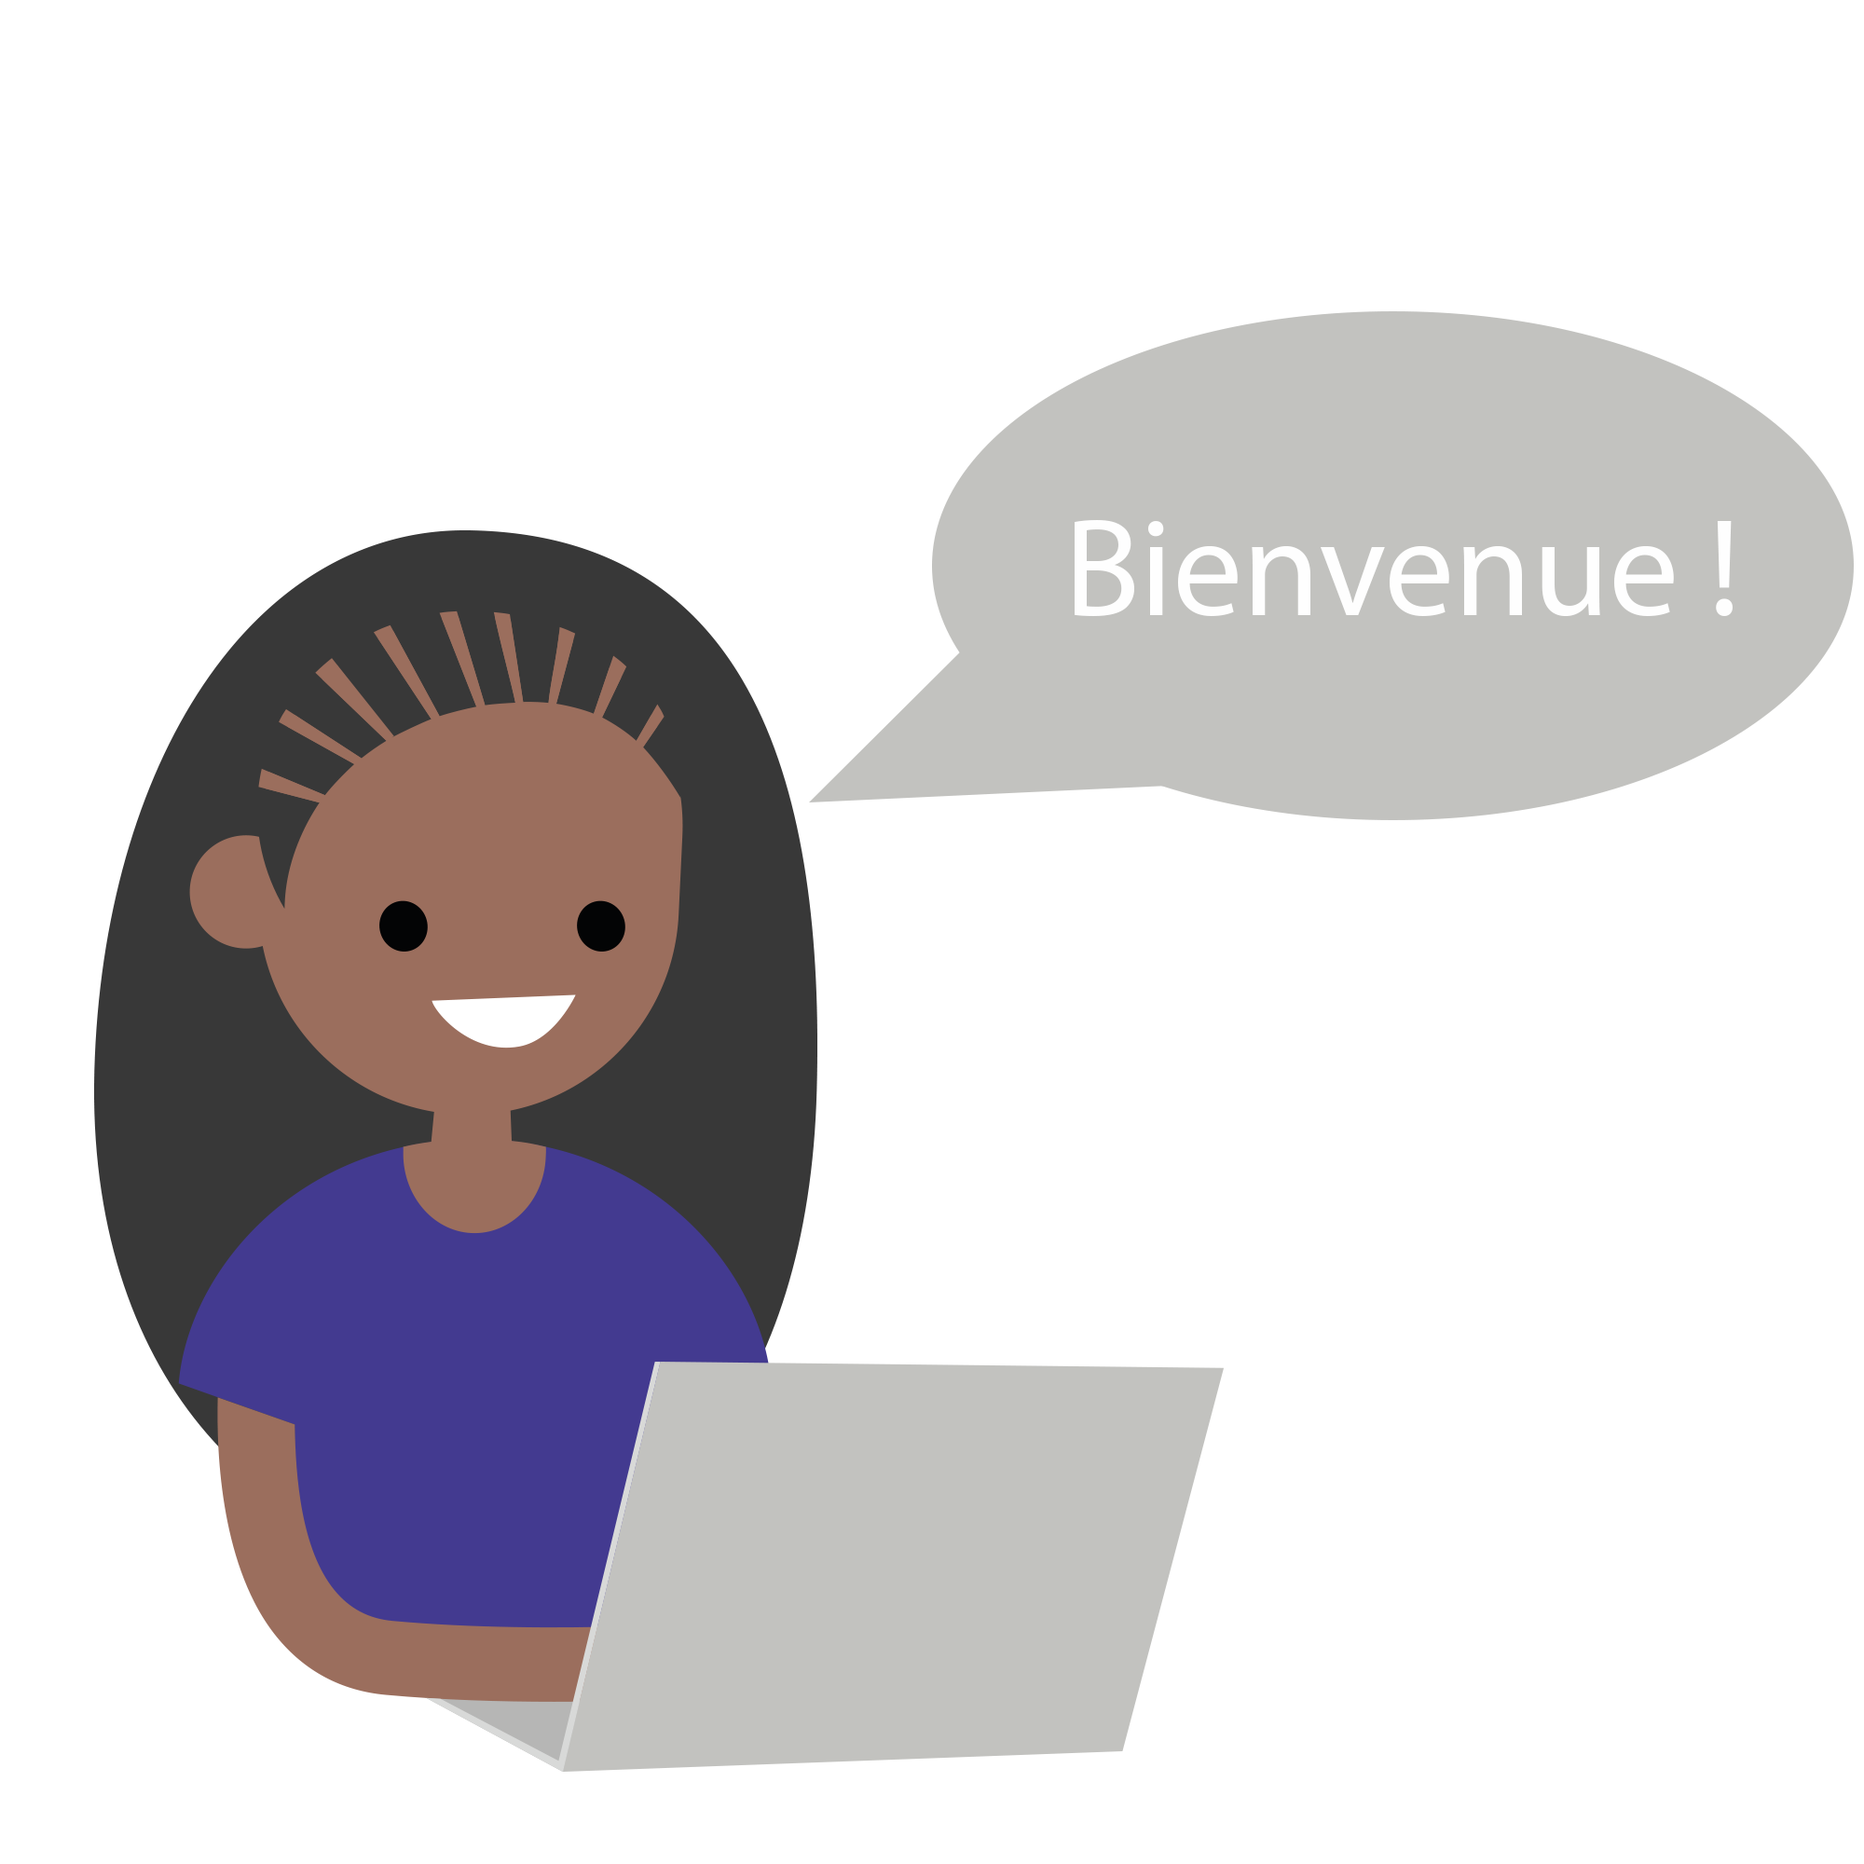
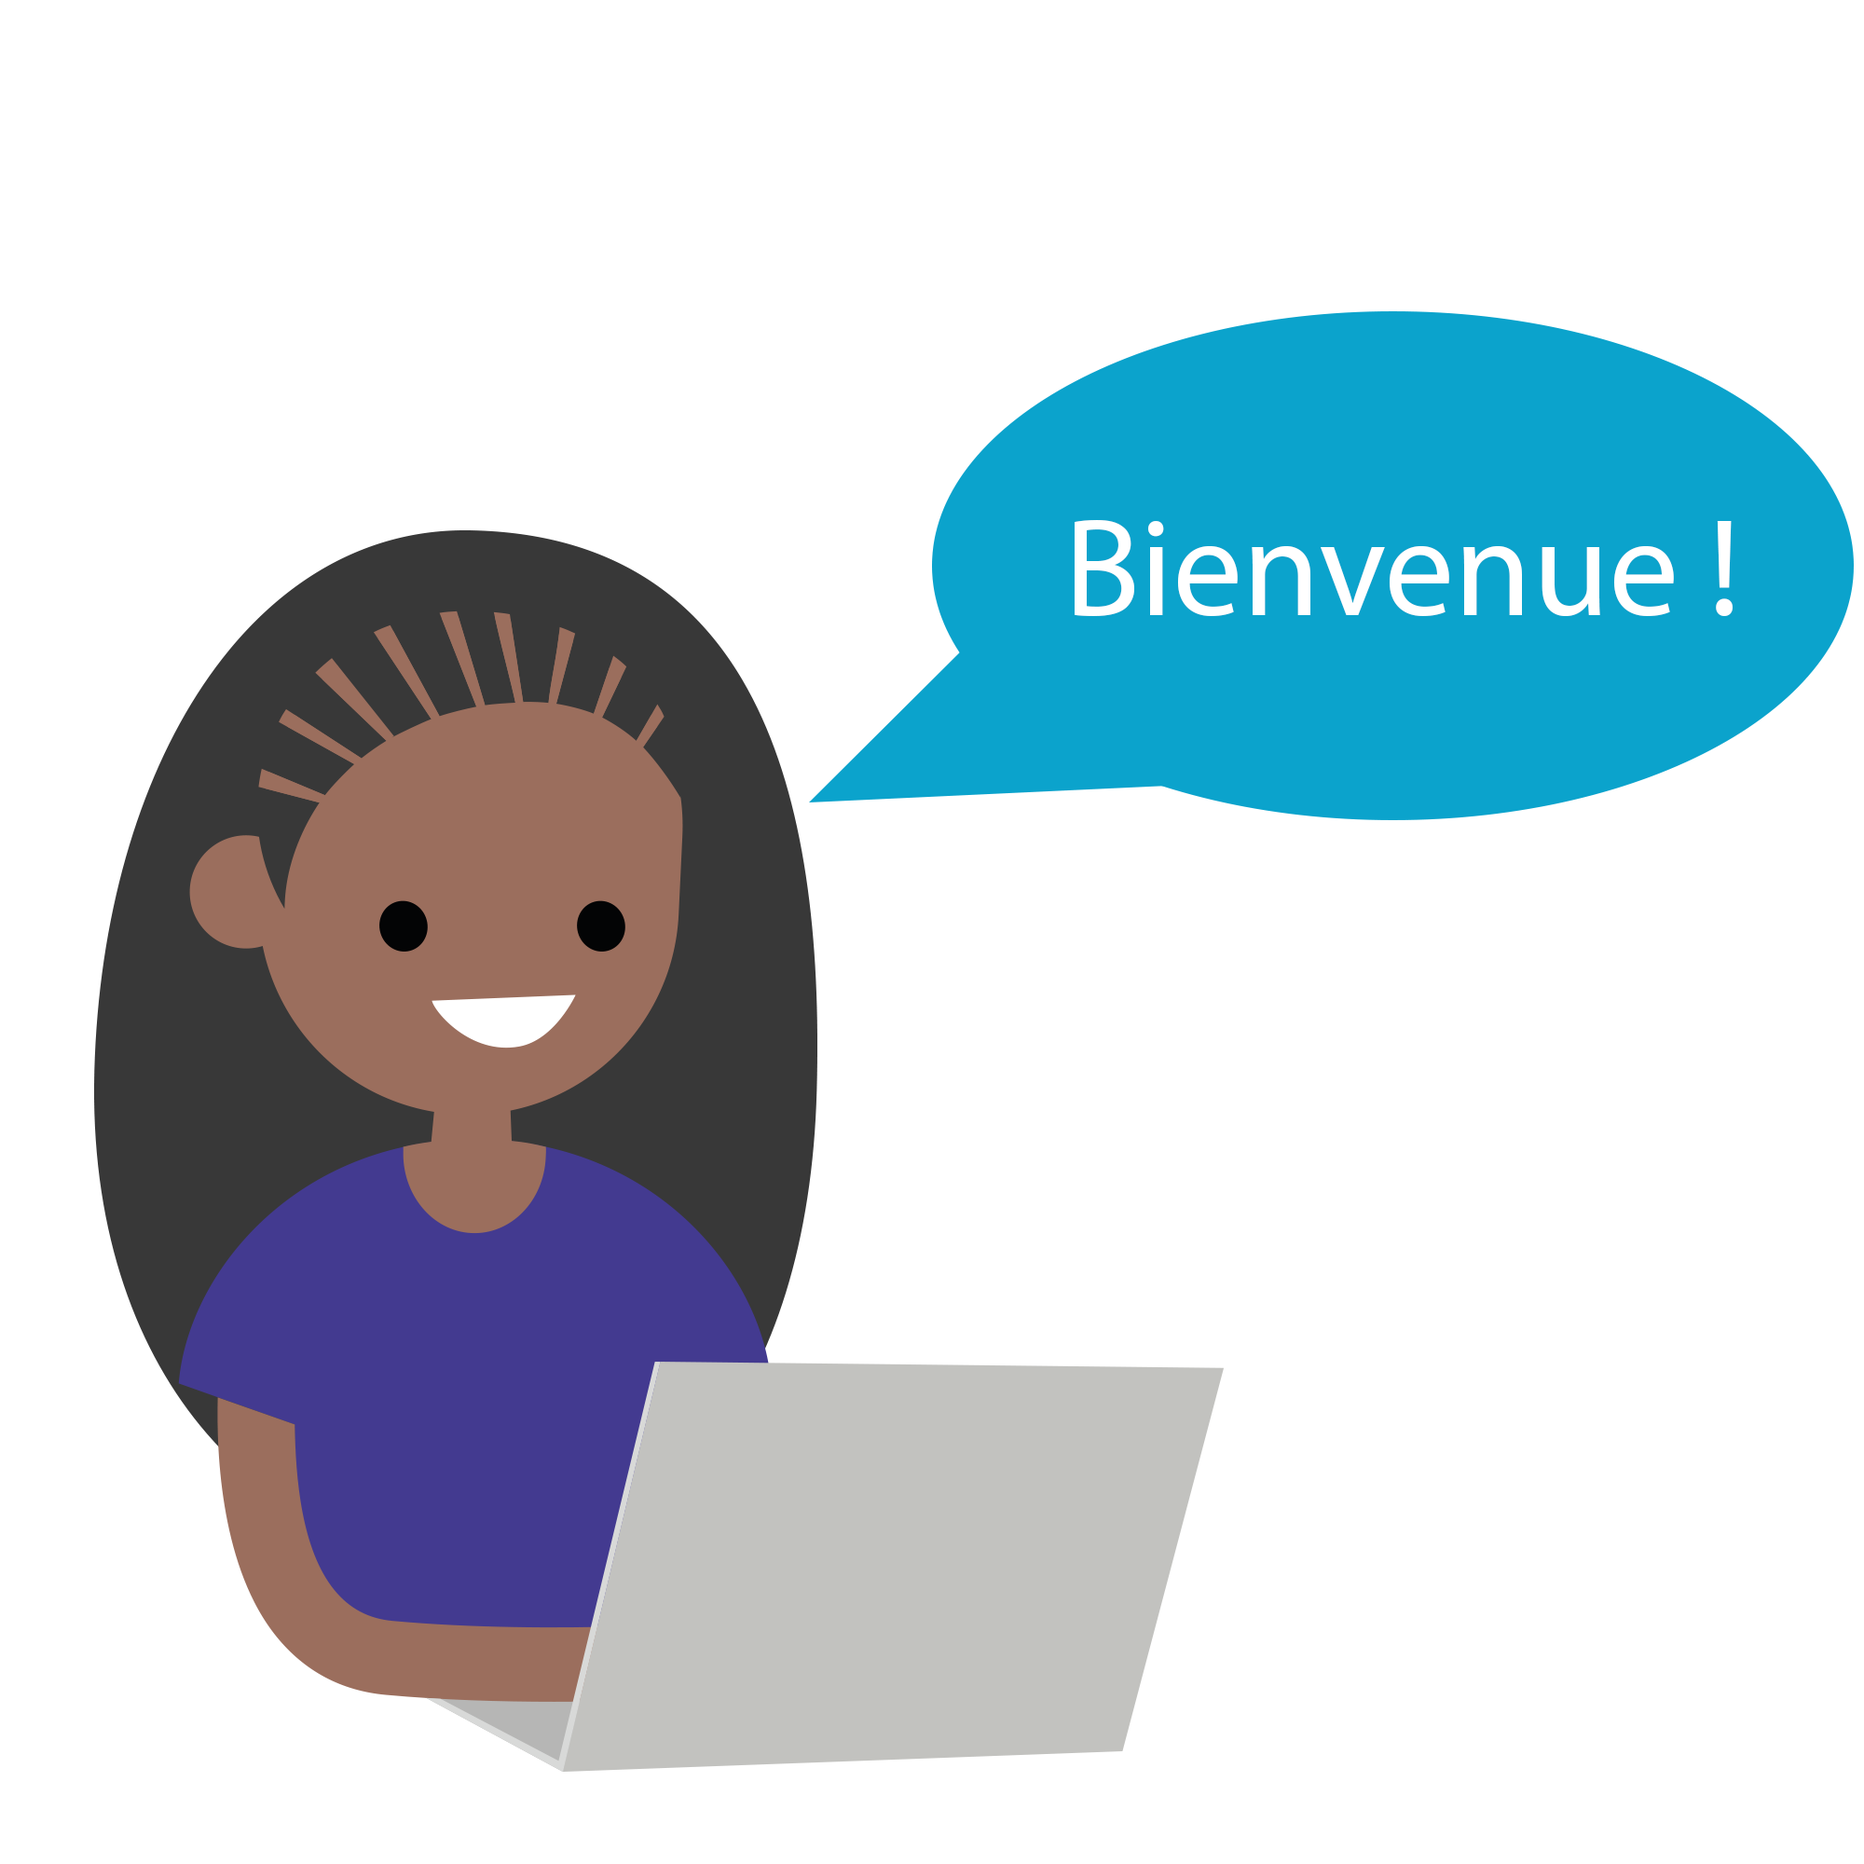
Modification CSS

Changed region(s): [[0.434, 0.155, 1.0, 0.465]]

diff --git a/src/pages/concours/concours.html b/src/pages/concours/concours.html
@@ -1,9 +1,17 @@
-<ion-header></ion-header>
-
-<ion-content *ngIf="connect" padding style="margin-top: 20px;">
-
+<ion-content *ngIf="connect" class="card-background-page content" padding style="background-color:#0BA3CC; margin-top : -5px;">
+    <div style="text-align : center; background-color: #0BA3CC;">
+        <br>
+        <img style="width:50%;" src="assets/imgs/logo24.png">
+    </div>
+    <br>
+    <br>
   <ion-row>
     <div class="titre">Modalités de participation au concours</div>
+    <br>
+    <br>
+    <div class="barre"></div>
+    <br>
+    <br>
   </ion-row>
   <div *ngIf="ref == undefined">
     <ion-row>
@@ -18,68 +26,86 @@
     </ion-row>
     <div>
       <ion-row>
-        <div class="modalites">Votre participation compte {{nombreTicketDejaRemis}} tickets </div>
+        <div class="modalites">
+          <ion-row>
+            <ion-col col-7>
+                Votre participation compte
+            </ion-col>
+            <ion-col class="nbTickets" col-3>
+                {{nombreTicketDejaRemis}} ticket(s)
+            </ion-col>
+          </ion-row>  </div>
       </ion-row>
       <div *ngIf="(nombreTicket-nombreTicketDejaRemis) == 0">
         <div class="modalites">Vous n'avez pas de nouveaux tickets pour augmenter vos chances de gagner. </div>
       </div>
       <div *ngIf="(nombreTicket-nombreTicketDejaRemis) > 0">
         <div class="modalites">Vous pouvez ajouter {{nombreTicket-nombreTicketDejaRemis}} tickets à votre participation. </div>
+        <br>
         <ion-row justify-content-center>
-          <button ion-button (click)="update(nombreTicket)">ajouter les tickets restants</button>
+          <button ion-button style="background-color:#E7600E" (click)="update(nombreTicket)">ajouter les tickets restants</button>
         </ion-row>
       </div>
     </div>
   </div>
+  <br>
+
   <div class="barre"></div>
-
-  <ion-row style="margin-top:20px; margin-block-end: 0">
-    <ion-list no-lines>
-      <ion-item>
-        <ion-label style="color: black" inline>Nom * :</ion-label>
-        <ion-input (change)="newInput()" [(ngModel)]="nom" style="color: #0BA3CC" type="text" placeholder="Votre nom"></ion-input>
-      </ion-item>
-      <ion-item>
-        <ion-label style="color: black" inline>Prénom * :</ion-label>
-        <ion-input (change)="newInput()" [(ngModel)]="prenom" style="color: #0BA3CC" type="text" placeholder="Votre prénom"></ion-input>
-      </ion-item>
-      <ion-item>
-        <ion-label style="color: black" inline>Téléphone * :</ion-label>
-        <ion-input (change)="newInput()" [(ngModel)]="tel" style="color: #0BA3CC" type="tel" placeholder="_ _-_ _-_ _-_ _-_ _"></ion-input>
-      </ion-item>
-      <ion-item>
-        <ion-label style="color: black" inline>Mail :</ion-label>
-        <ion-input [(ngModel)]="mail" style="color: #0BA3CC" type="email" placeholder="votre_mail@exemple.fr"></ion-input>
-      </ion-item>
-      <ion-item>
-        <div class="conditions">* champs obligatoires</div>
-      </ion-item>
-    </ion-list>
-  </ion-row>
-  <div *ngIf="ref != undefined" style="margin-bottom:40px;">
-    <ion-row justify-content-center>
-      <button ion-button [disabled]="!isEnable" (click)="update(nombreTicketDejaRemis)">modifier mes coordonnées</button>
-    </ion-row>
-    <div class="barre"></div>
-  </div>
-
-  <div *ngIf="ref == undefined" style="margin-bottom:40px;">
-    <ion-row class="conditionsRow">
-      <ion-col col-1 align-self-center>
-        <ion-checkbox (ionChange)="newInput()" [(ngModel)]="cg" color="primary" checked="false"></ion-checkbox>
-      </ion-col>
-      <ion-col>
-        <div class="conditions">J'ai lu et j'accepte les
-          <div class="link" (click)="easterEgg()">
-            <span>conditions générales</span>
-          </div> de participation au concours et certifie sur l'honneur l'exactitude des informations communiquées</div>
-      </ion-col>
-    </ion-row>
-
-    <ion-row justify-content-center>
-      <button ion-button [disabled]="!isEnable" (click)="envoyer()">Envoyer la candidature</button>
-    </ion-row>
-  </div>
+  <br>
+<ion-card>
+  <br>
+<ion-card-title class="col">
+  Formulaire d'inscription
+</ion-card-title>
+    <ion-row style="margin-top:20px; margin-block-end: 0">
+        <ion-list no-lines>
+          <ion-item>
+            <ion-label style="color: black" inline>Nom * :</ion-label>
+            <ion-input (change)="newInput()" [(ngModel)]="nom" style="color: black" type="text" placeholder="Votre nom"></ion-input>
+          </ion-item>
+          <ion-item>
+            <ion-label style="color: black" inline>Prénom * :</ion-label>
+            <ion-input (change)="newInput()" [(ngModel)]="prenom" style="color: black" type="text" placeholder="Votre prénom"></ion-input>
+          </ion-item>
+          <ion-item>
+            <ion-label style="color: black" inline>Téléphone * :</ion-label>
+            <ion-input (change)="newInput()" [(ngModel)]="tel" style="color: black" type="tel" placeholder="_ _-_ _-_ _-_ _-_ _"></ion-input>
+          </ion-item>
+          <ion-item>
+            <ion-label style="color: black" inline>Mail :</ion-label>
+            <ion-input [(ngModel)]="mail" style="color: black" type="email" placeholder="votre_mail@exemple.fr"></ion-input>
+          </ion-item>
+          <ion-item>
+            <div class="conditions">* champs obligatoires</div>
+          </ion-item>
+        </ion-list>
+      </ion-row>
+      <div *ngIf="ref != undefined" style="margin-bottom:40px;">
+        <ion-row justify-content-center>
+          <button ion-button [disabled]="!isEnable" (click)="update(nombreTicketDejaRemis)">modifier mes coordonnées</button>
+        </ion-row>
+        <div class="barre"></div>
+      </div>
+    
+      <div *ngIf="ref == undefined" style="margin-bottom:40px;">
+        <ion-row class="conditionsRow">
+          <ion-col col-1 align-self-center>
+            <ion-checkbox (ionChange)="newInput()" [(ngModel)]="cg" color="primary" checked="false"></ion-checkbox>
+          </ion-col>
+          <ion-col>
+            <div class="conditions">J'ai lu et j'accepte les
+              <div class="link" (click)="easterEgg()">
+                <span>conditions générales</span>
+              </div> de participation au concours et certifie sur l'honneur l'exactitude des informations communiquées</div>
+          </ion-col>
+        </ion-row>
+    
+        <ion-row justify-content-center>
+          <button ion-button [disabled]="!isEnable" (click)="envoyer()">Envoyer la candidature</button>
+        </ion-row>
+      </div>
+</ion-card>
+  
 </ion-content>
 
 <ion-content *ngIf="!connect" text-center>

diff --git a/src/pages/defis/defis.html b/src/pages/defis/defis.html
@@ -1,14 +1,24 @@
 <ion-header></ion-header>
 
 <ion-content padding>
+    <div style="text-align : center">
+        <img style="width:50%;" src="assets/imgs/logo24_bleu.png">
+    </div>
+
+    <br>
+    <br>
+
     <div *ngFor="let theme of listTheme">
         <ion-grid>
             <ion-row class="bleu">
-                <ion-col col-10>
+                <ion-col col-9>
                     <ion-label class="titre-defi">{{theme.nom}}</ion-label>
                 </ion-col>
                 <ion-col col-2>
                     <ion-label class="ticket">{{theme.nbTicketActuel}}/{{theme.nbTicketMax}}</ion-label>
+                </ion-col>
+                <ion-col class="flex" col-1>
+                    <img class="imgticket" src="assets/imgs/ticket.png">
                 </ion-col>
             </ion-row>
         </ion-grid>
@@ -20,8 +30,8 @@
                         <ion-col class="trophee">
                             <ion-icon class="bloque" name="md-trophy"></ion-icon>
                         </ion-col>
-                        <ion-col>
-                            ???
+                        <ion-col class="defititre">
+                            ?????????
                         </ion-col>
                     </ion-row>
                 </ion-grid>
@@ -33,7 +43,7 @@
                         <ion-col class="trophee">
                             <ion-icon class="debloque shake" name="md-trophy"></ion-icon>
                         </ion-col>
-                        <ion-col>
+                        <ion-col class="defititre">
                             {{defi.titre}}
                         </ion-col>
                     </ion-row>
@@ -46,7 +56,7 @@
                         <ion-col class="trophee">
                             <ion-icon class="fini" name="md-trophy"></ion-icon>
                         </ion-col>
-                        <ion-col>
+                        <ion-col class="defititre">
                             {{defi.titre}}
                         </ion-col>
                     </ion-row>

diff --git a/src/pages/slide-tuto/slide-tuto.html b/src/pages/slide-tuto/slide-tuto.html
@@ -1,7 +1,9 @@
-<ion-content fullscreen padding style="background-color:#D3D3D3;">
+<ion-content fullscreen padding style="background-color:white; color: black;">
+    <img style="position: absolute; top:1%; left:1%; width:50%;" src="assets/imgs/ensim.png">
+    <button style="position: absolute; top:1%; right:1%;" (tap)="suivant()" ion-button outline clear color="primary">Passer ></button>
   <ion-slides pager>
     <ion-slide *ngFor="let slide of slides">
-      <button style="position: absolute; top:1%; right:1%;" (click)="suivant()" ion-button color="primary">Passer</button>
+      
       <img [src]="slide.image" class="slide-image" />
       <h2 class="slide-title" [innerHTML]="slide.title"></h2>
       <p [innerHTML]="slide.description"></p>
@@ -9,7 +11,7 @@
     <ion-slide>
       <img src="assets/imgs/slide4.png" class="slide-image" />
       <h2 class="slide-title">Prêt à relever le défi ?</h2>
-      <button (click)="suivant()" ion-button large clear icon-end color="primary">
+      <button (click)="suivant()" ion-button large clear icon-end>
         C'est parti !
         <ion-icon name="arrow-forward"></ion-icon>
       </button>

diff --git a/src/pages/concours/concours.scss b/src/pages/concours/concours.scss
@@ -6,14 +6,17 @@ page-concours {
 
     .titre{
         width: 100%;
-        font-size: 16pt;
+        font-size: 30px;;
         text-align: center;
+        color:white;
     }
 
     .modalites{
         width: 100%;
         text-align: center;
         margin-top: 10px;
+        color:white;
+        font-size:17px;
     }
 
     .conditions{
@@ -25,5 +28,31 @@ page-concours {
         margin-top: 10px;
         margin-bottom: 10px;
     }
+
+    .col
+    {
+        text-align: center;
+    }
+
+    .nbTickets
+    {
+        background-color: #E7600E;
+        border-radius : 10px;
+    }
+
+.card-background-page
+{
+    
+
+    ion-card {
+        border-radius: 4px;
+        background: rgba(232, 230, 230, 0.9px);
+    }
+    ion-item {
+        position: relative;
+        background: rgba(232, 230, 230, 0.2px);
+    }
+}
+    
 
 }

diff --git a/src/pages/defis/defis.scss b/src/pages/defis/defis.scss
@@ -19,6 +19,18 @@ page-defis {
         font-size:30px;
     }
 
+    .imgticket{
+        width:100%;
+        
+    }
+
+    .flex{
+        display: flex;
+        justify-content: center;
+        align-items: center;
+        text-align:left;
+    }
+
     .card-ios{
         width: calc(100% - 13px);
         margin-left: 20px;
@@ -44,7 +56,10 @@ page-defis {
     ion-label.titre-defi{
         font-size: 18px;
         color:white;
-        flex-flow: column;
+        text-align: left;
+        //flex-flow: column;
+        font-weight: bold;
+        margin-left: 10px;
         
     }
     .label-ios{
@@ -59,7 +74,12 @@ page-defis {
 
     .col{
         text-align: center;
-        vertical-align: middle;
+        //vertical-align: middle;
+    }
+
+    .defititre
+    {
+        text-align: left;
     }
 
     .bleu{

diff --git a/src/app/app.component.ts b/src/app/app.component.ts
@@ -19,7 +19,7 @@ export class MyApp {
   constructor(platform: Platform, statusBar: StatusBar, splashScreen: SplashScreen, sqliteService: SQLiteService, event: Events) {
     platform.ready().then(() => {
 
-      statusBar.styleDefault();
+      statusBar.hide();
       splashScreen.hide();
 
       MyApp.event = event;
@@ -39,5 +39,6 @@ export class MyApp {
       messagingSenderId: "957300827901"
     };
     firebase.initializeApp(config);
+    //this.statusBar.hide();
   }
 }

diff --git a/src/pages/historique/historique.html b/src/pages/historique/historique.html
@@ -1,4 +1,10 @@
 <ion-content no-padding style="background-color:#D3D3D3; margin-top:-5px">
+  
+  <div style="text-align : center; background-color: #0BA3CC;">
+      <br>
+      <br>
+      <img style="width:50%;" src="assets/imgs/logo24.png">
+  </div>
   <ion-list no-lines no-margin no-padding>
     <ion-item color="primary">
       <ion-label color="light" style="text-align: right">Édition</ion-label>

diff --git a/src/pages/historique/historique.scss b/src/pages/historique/historique.scss
@@ -1,7 +1,12 @@
 page-historique {
 
-    ion-segment-button.text-on-bottom{
+    /*ion-segment-button.text-on-bottom{
         flex-direction: column;
+      }*/
+
+      .content{
+          text-align:center;
+          font-size: 15px;
       }
 
     

diff --git a/src/pages/slide-tuto/slide-tuto.ts b/src/pages/slide-tuto/slide-tuto.ts
@@ -11,7 +11,11 @@ import { TabsPage } from '../tabs/tabs';
 })
 export class SlideTutoPage {
 
+ 
+
   constructor(public navCtrl: NavController, public navParams: NavParams, private nativeStorage: NativeStorage) {
+
+    
 
   }
 
